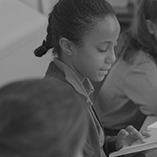
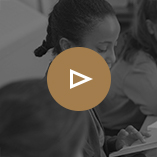
Added video player

diff --git a/src/mobile/components/video-player/video-player.jsx b/src/mobile/components/video-player/video-player.jsx
@@ -1,0 +1,100 @@
+import React from 'react';
+import {findDOMNode} from 'react-dom';
+import animate from 'gsap-promise';
+import detect from 'common/utils/detect';
+
+export default class RotateScreen extends React.Component {
+
+  static propTypes = {
+    style: React.PropTypes.object,
+    className: React.PropTypes.string,
+    src: React.PropTypes.string,
+    status: React.PropTypes.string
+  };
+
+  componentDidMount() {
+    this.refs.video.style.opacity = 0;
+    animate.set(this.refs.video, { opacity: 0, width: 1, height: 1, x: -window.innerWidth/2, y: -window.innerHeight/2 });
+    document.addEventListener('fullscreenchange', this.handleFullscreenChange);
+    document.addEventListener('webkitfullscreenchange', this.handleFullscreenChange);
+  }
+
+  componentWillUnmount() {
+    document.removeEventListener('fullscreenchange', this.handleFullscreenChange);
+    document.removeEventListener('webkitfullscreenchange', this.handleFullscreenChange);
+  }
+
+  componentWillReceiveProps(nextProps) {
+
+    if(this.props.status !== nextProps.status) {
+      this.refs.video.currentTime = 0;
+
+      if(detect.md.is('iPhone')) {
+        setTimeout(() => {
+          this.refs.video.play();
+          this.props.onExitFullscreen();
+        },300);
+      } else {
+        nextProps.status === 'play' ? this.playVideo() : this.stopVideo();
+      }
+    }
+  }
+
+  playVideo = () => {
+    this.refs.video.style.opacity = 1;
+
+    if(detect.md.is('iPhone')) {
+      this.refs.video.play();
+    } else {
+      this.requestFullscreen(this.refs.video);
+      this.refs.video.play();
+    }
+  }
+
+  stopVideo = () => {
+    this.refs.video.pause();
+    this.refs.video.currentTime = 0;
+  };
+
+  requestFullscreen = (el) => {
+    if(el.requestFullscreen) {
+      el.requestFullscreen();
+    } else if(el.mozRequestFullScreen) {
+      el.mozRequestFullScreen();
+    } else if(el.webkitRequestFullscreen) {
+      el.webkitRequestFullscreen();
+    } else if(el.msRequestFullscreen) {
+      el.msRequestFullscreen();
+    }
+    
+    el.style.opacity = 1;
+  };
+
+  isFullScreen() {
+    var isFS;
+
+    if(document.fullscreen !== undefined) {
+      isFS = document.fullscreen;
+    } else if(document.mozFullScreen !== undefined) {
+      isFS = document.mozFullScreen;
+    } else if(document.webkitIsFullScreen !== undefined) {
+      isFS = document.webkitIsFullScreen;
+    }
+
+    return isFS;
+  }
+
+  handleFullscreenChange = () => {
+    if(!this.isFullScreen()) {
+      this.props.onExitFullscreen();
+    }
+  };
+
+  render() {
+    const { className = '', style } = this.props;
+
+    return (
+      <video ref="video" className={className} style={style} src={this.props.src} />
+    )
+  }
+}

diff --git a/src/mobile/pages/landing/landing.jsx b/src/mobile/pages/landing/landing.jsx
@@ -4,6 +4,7 @@ import IconWatch from 'svgs/icon-play.svg';
 import IconExplore from 'svgs/icon-explore.svg';
 import Button from 'common/components/rectangular-button/rectangular-button';
 import MobileMenu from '../../components/mobile-menu/mobile-menu';
+import VideoPlayer from '../../components/video-player/video-player';
 import * as actionCreators from '../../components/mobile-header/mobile-header-actions';
 import narrativeVideoData from '../../data/narrative-video.js';
 import store from 'common/store';
@@ -12,6 +13,10 @@ import detect from 'common/utils/detect';
 
 @pageTransitions
 export default class Landing extends React.Component {
+
+  state = {
+    videoStatus: 'paused'
+  };
 
   componentWillMount() {
     this.setHeader();
@@ -29,11 +34,23 @@ export default class Landing extends React.Component {
   };
 
   playVideo = () => {
+    this.refs.video.currentTime = 0;
+
     if(detect.md.is('iPhone')) {
       this.refs.video.play();
     } else {
-      window.open(this.refs.video.src);
+      this.requestFullscreen(this.refs.video);
+      this.refs.video.style.opacity = 1;
+      this.refs.video.play();
     }
+  };
+
+  playVideo = () => {
+    this.setState({ videoStatus: 'play' });
+  };
+
+  pauseVideo = () => {
+    this.setState({ videoStatus: 'pause' });
   };
 
   render () {
@@ -46,7 +63,11 @@ export default class Landing extends React.Component {
           <h1>School Tour</h1>
           <p>Take an inside look at our culture and curriculum through the eyes of our scholars.</p>
           <div href={narrativeVideoData.src} target="__blank">
-            <video ref="video" src={narrativeVideoData.src} />
+            <VideoPlayer
+              status={this.state.videoStatus}
+              src={narrativeVideoData.src}
+              onExitFullscreen={this.pauseVideo}
+            />
             <Button
               text="Start the Tour"
               color="#ffffff"

diff --git a/src/mobile/mobile.jsx b/src/mobile/mobile.jsx
@@ -4,6 +4,7 @@ import TransitionGroup from 'react-addons-transition-group';
 import Header from './components/mobile-header/mobile-header-redux';
 import RotateScreen from './components/rotate-screen/rotate-screen';
 import MobileMenu from './components/mobile-menu/mobile-menu';
+import VideoPlayer from './components/video-player/video-player';
 import * as headerActionCreators from './components/mobile-header/mobile-header-actions';
 import * as menuActionCreators from './components/mobile-menu/mobile-menu-actions.js';
 import store from 'common/store';
@@ -14,19 +15,18 @@ import _ from 'lodash';
 import chaptersModel from './model/chapters-model.js';
 import instructionalVideosModel from './model/instructional-videos-model.js';
 
-
-// Preload([
-//   MobileMenu.backgroundImage,
-//   ...(_.flatten(chaptersModel.getAll().map(chapter => {
-//     return [
-//       ...chapter.articles.map(article => article.iconImage),
-//       ...chapter.instructionalVideos.map(video => video.iconImage),
-//       chapter.photoEssay && chapter.photoEssay.iconImage,
-//       chapter.panorama && chapter.panorama.iconImage,
-//       chapter.podcast && chapter.podcast.iconImage,
-//     ].filter(Boolean)
-//   })))
-// ]);
+Preload([
+  MobileMenu.backgroundImage,
+  ...(_.flatten(chaptersModel.getAll().slice(0, 3).map(chapter => {
+    return [
+      ...chapter.articles.map(article => article.iconImage),
+      ...chapter.instructionalVideos.map(video => video.iconImage),
+      chapter.photoEssay && chapter.photoEssay.iconImage,
+      chapter.panorama && chapter.panorama.iconImage,
+      chapter.podcast && chapter.podcast.iconImage,
+    ].filter(Boolean)
+  })))
+]);
 
 export default class Mobile extends React.Component {
   static childContextTypes = {

diff --git a/src/mobile/pages/chapters/content-list/content-list.jsx b/src/mobile/pages/chapters/content-list/content-list.jsx
@@ -1,6 +1,7 @@
 import React from 'react';
 import {Link} from 'react-router';
 import IconExplore from 'svgs/icon-explore.svg';
+import IconPlay from 'svgs/icon-thumbnail-play.svg';
 import ClockIconSvg from 'svgs/clock-icon.svg';
 import animate from 'gsap-promise';
 
@@ -8,7 +9,7 @@ function ConditionalLink (props) {
   if(props.isExternalLink) {
     return <a className={props.className} href={props.to} target="__blank">{props.children}</a>
   } else {
-    return <Link className={props.className} to={props.to} >{props.children}</Link>
+    return <Link className={props.className} to={props.to}>{props.children}</Link>
   }
 }
 
@@ -77,6 +78,7 @@ export default class ChapterContentList extends React.Component {
           <ListItem
             label="Play"
             name="Narrative Video"
+            isVideo={true}
             image={ this.props.narrativeVideo.iconImage }
             duration={ this.props.narrativeVideo.duration }
             isExternalLink={true}
@@ -95,6 +97,7 @@ export default class ChapterContentList extends React.Component {
                   key={i}
                   label="Play"
                   name={`Instructional Video${number}`}
+                  isVideo={true}
                   image={ video.iconImage }
                   duration={ video.duration }
                   isExternalLink={true}

diff --git a/src/mobile/pages/photo-essay/photo-essay.scss b/src/mobile/pages/photo-essay/photo-essay.scss
@@ -30,7 +30,6 @@
   main {
     width: 100vw;
     height: 100vh;
-    // padding-top: calc(8.945vh);
     overflow-x: hidden;
     overflow-y: scroll;
   }
@@ -47,7 +46,9 @@
   }
 
   img {
+    position: relative;
     width: 100%;
+    transform: translateZ(0);
   }
 
   .photo-item {

diff --git a/src/mobile/components/mobile-menu/mobile-menu.jsx b/src/mobile/components/mobile-menu/mobile-menu.jsx
@@ -99,7 +99,6 @@ export default class MobileMenu extends React.Component {
       <div
         ref="menu"
         className="mobile-menu"
-        style={{ backgroundImage: `url('${MobileMenu.backgroundImage}')` }}
       >
         {
           this.data.map((item, i) => {

diff --git a/src/mobile/components/mobile-menu/mobile-menu.scss b/src/mobile/components/mobile-menu/mobile-menu.scss
@@ -8,6 +8,7 @@
   flex-direction: column;
   width: 100vw;
   height: 100vh;
+  background: url('#{$ASSET_PATH}/mobile-menu-background.jpg');
   background-color: black;
   background-size: cover;
   padding-top: $mobile-header-height;

diff --git a/src/mobile/pages/article/article.scss b/src/mobile/pages/article/article.scss
@@ -49,6 +49,8 @@
   }
 
   img {
+    position: relative;
     width: 100%;
+    transform: translateZ(0);
   }
 }
